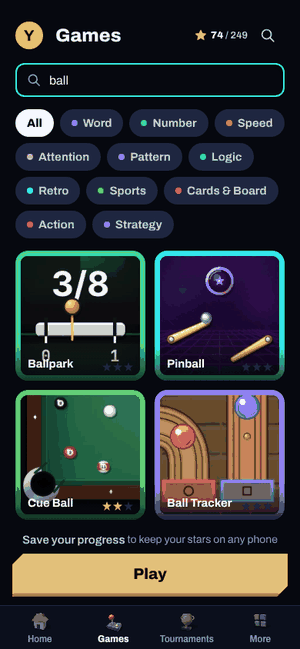
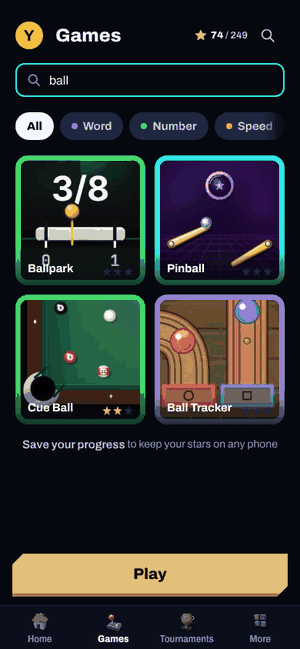
Games pages: phone chips in one scrolling row; Challenges' Friends tab
Phones: the catalogue's chips are one row that scrolls inside itself (edge faded),
so the hero shows on the first screen; tablets and computers wrap them.
Challenges: a fourth tab, Friends, after Done: YourChallenges (tab variant, Profile's
former list), each row opening its challenge; with none, one line and a Challenge a
friend link. The tabs carry no counts. standard-live-check exits after its summary.
Gallery: the catalogue and Challenges shots re-recorded, the Friends tab added.

Claude-Session: https://claude.ai/code/session_011WK1FeSMpN5mWuL4Buj1WU

diff --git a/src/routes/challenges.tsx b/src/routes/challenges.tsx
@@ -2,6 +2,7 @@ import { createFileRoute, useRouter } from "@tanstack/react-router";
 import { useMemo, useState } from "react";
 
 import { GameIcon } from "@/components/app/GameIcon";
+import { YourChallenges } from "@/components/challenge/YourChallenges";
 import { PhoneShell } from "@/components/duel/PhoneShell";
 import {
   ChallengeRows,
@@ -33,13 +34,21 @@ export const Route = createFileRoute("/challenges")({
   component: ChallengesScreen,
 });
 
-type Filter = ChallengeState["status"];
+type Filter = ChallengeState["status"] | "friends";
 
 const FILTERS: { value: Filter; label: string }[] = [
   { value: "progress", label: "In progress" },
   { value: "new", label: "New" },
   { value: "done", label: "Done" },
+  // The friend challenges this device made or sent (Profile's former "Your challenges", 14 Nov 2026).
+  { value: "friends", label: "Friends" },
 ];
+
+/**
+ * Where the Friends tab's empty state sends a player to challenge a friend: today's Challenge a friend screen (the
+ * create form). The brief named /rooms, which isn't on main yet; point this there once that route lands.
+ */
+const CHALLENGE_A_FRIEND = { to: "/challenge", search: {} } as const;
 
 function ChallengesScreen() {
   useHomeBed();
@@ -48,7 +57,7 @@ function ChallengesScreen() {
   const server = useServerChallenges(true);
   const states = useChallengeStates(server);
   const joules = useChallengeJoules();
-  const counts: Record<Filter, number> = { progress: 0, new: 0, done: 0 };
+  const counts: Record<ChallengeState["status"], number> = { progress: 0, new: 0, done: 0 };
   for (const s of states) counts[s.status] += 1;
   const [chosen, setChosen] = useState<Filter | null>(null);
   const filter: Filter = chosen ?? (counts.progress > 0 ? "progress" : "new");
@@ -123,11 +132,29 @@ function ChallengesScreen() {
           options={FILTERS.map((f) => ({
             value: f.value,
             label: f.label,
-            count: counts[f.value],
+            // No counts on the tabs (the mockup's; four tabs fit a 375 px phone): the done count is in the summary.
             data: { "data-challenge-filter": f.value },
           }))}
         />
-        {groups.length === 0 ? (
+        {filter === "friends" ? (
+          // Each row opens the challenge as it did on Profile.
+          <YourChallenges
+            variant="tab"
+            onOpen={(code) =>
+              void router.navigate({
+                to: "/challenge",
+                search: { code },
+                state: { fromPlayTab: true } as never,
+              } as never)
+            }
+            onNew={() =>
+              void router.navigate({
+                ...CHALLENGE_A_FRIEND,
+                state: { fromPlayTab: true } as never,
+              } as never)
+            }
+          />
+        ) : groups.length === 0 ? (
           <p data-challenges-empty className="gm-empty">
             {filter === "done"
               ? "None done yet"
@@ -152,7 +179,9 @@ function ChallengesScreen() {
                   className="gm-ch-game press"
                 >
                   <GameIcon type={type} size={44} />
-                  <span className="gm-ch-game-name" data-wrap-ok="">{name}</span>
+                  <span className="gm-ch-game-name" data-wrap-ok="">
+                    {name}
+                  </span>
                   <Icon name="chevron-right" size={20} className="gm-ch-game-chevron" />
                 </button>
                 <ChallengeRows

diff --git a/src/components/challenge/YourChallenges.tsx b/src/components/challenge/YourChallenges.tsx
@@ -14,7 +14,20 @@ const SHOWN = 4;
  * sees the empty state (wave 1, 10 Nov 2026: Captain Joulz, one line, Challenge a friend); a server error
  * (e.g. before the migration) hides the section.
  */
-export function YourChallenges({ onOpen, onNew }: { onOpen: (code: string) => void; onNew?: () => void }) {
+export function YourChallenges({
+  onOpen,
+  onNew,
+  variant = "section",
+}: {
+  onOpen: (code: string) => void;
+  onNew?: () => void;
+  /**
+   * `tab` (the Challenges page's Friends tab, 14 Nov 2026): the list with no heading of its own, and, with nothing to
+   * show (none made or sent, none returned, or a server error), one line and a Challenge a friend link. `section` (the
+   * default) is Profile's section exactly as before.
+   */
+  variant?: "section" | "tab";
+}) {
   const [list, setList] = useState<ChallengeSummary[] | null>(null);
   const [none, setNone] = useState(false);
   useEffect(() => {
@@ -34,6 +47,20 @@ export function YourChallenges({ onOpen, onNew }: { onOpen: (code: string) => vo
       live = false;
     };
   }, []);
+  if (variant === "tab") {
+    if (!none && list === null) return null;
+    if (none || !list || list.length === 0)
+      return (
+        <p data-your-challenges-empty className="gm-empty">
+          No friend challenges yet.{" "}
+          {onNew ? (
+            <button type="button" onClick={onNew} data-challenge-a-friend className="ap-link press -my-3 inline-flex h-11 items-center align-middle">
+              Challenge a friend
+            </button>
+          ) : null}
+        </p>
+      );
+  }
   if (none && onNew)
     return (
       <section aria-label="Your challenges" className="ap-section">
@@ -51,7 +78,7 @@ export function YourChallenges({ onOpen, onNew }: { onOpen: (code: string) => vo
   const now = Date.now();
   return (
     <section aria-label="Your challenges" data-your-challenges className="ap-section">
-      <SectionHeader title="Your challenges" />
+      {variant === "tab" ? null : <SectionHeader title="Your challenges" />}
       <ul className="jz-panel">
         {list.map((c) => (
           <li key={c.code}>

diff --git a/scripts/screens/games.ts b/scripts/screens/games.ts
@@ -7,6 +7,7 @@
  */
 import type { Page } from "playwright";
 
+import { challengeFixture } from "../challenge-fixture";
 import { passFixture } from "../pass-fixture";
 import { PRACTICE_CHALLENGES, challengeLive } from "../../src/lib/duel/practiceChallenges";
 import type { ServerChallenges } from "../../src/lib/challenges/challengesClient";
@@ -46,6 +47,12 @@ export function gamesChallengesFixture(): ServerChallenges {
 
 const pageOf = (type: string) => ({ page: type });
 
+/** The Challenges page's Friends tab chosen. */
+const friendsTab = async (page: Page) => {
+  await page.locator("[data-challenge-filter='friends']").click();
+  await page.locator("[data-your-challenges], [data-your-challenges-empty]").first().waitFor({ timeout: 15_000 });
+};
+
 export const GAMES_SCREENS = (sizes: ThemeViewport[], allSizes: ThemeViewport[]): ThemeScreen[] => {
   const data = { __harnessProgress: gamesProgressFixture(), __DUELZ_CHALLENGES__: gamesChallengesFixture() };
   const pass = passFixture();
@@ -80,5 +87,8 @@ export const GAMES_SCREENS = (sizes: ThemeViewport[], allSizes: ThemeViewport[])
     { name: "games light: catalogue", mode: "practice", globals: { ...data, ...light }, sizes: allSizes },
     { name: "games light: game page", mode: "practice", plain: true, search: pageOf("tubes"), globals: { ...withPass, ...light }, sizes: allSizes, waitMs: 900 },
     { name: "games light: challenges", mode: "challenges", plain: true, globals: { ...withPass, ...light }, sizes: allSizes, waitMs: 900 },
+    // The Friends tab (Joe, 14 Nov 2026): this device's friend challenges (Profile's former "Your challenges"), and none.
+    { name: "games: challenges, friends", mode: "challenges", plain: true, globals: data, challenge: () => challengeFixture("create"), sizes, waitMs: 600, go: friendsTab },
+    { name: "games: challenges, friends, none", mode: "challenges", plain: true, records: false, globals: data, sizes, waitMs: 600, go: friendsTab },
   ];
 };

diff --git a/src/polish-layout/games.css b/src/polish-layout/games.css
@@ -36,13 +36,35 @@
   gap: var(--jz-space-16);
   padding-bottom: var(--jz-space-24);
 }
+/*
+ * The chips: on a phone one row that scrolls sideways inside itself (the page never does), its right edge fading
+ * out, so the hero shows on the first screen; a tablet or a computer (PhoneShell's data-layout) wraps them.
+ */
 .gm-chips {
   display: flex;
-  flex-wrap: wrap;
+  flex-wrap: nowrap;
   gap: var(--jz-space-8);
+  overflow-x: auto;
+  overscroll-behavior-x: contain;
+  margin: 0 calc(-1 * var(--jz-space-4));
+  padding: var(--jz-space-4) var(--jz-space-32) var(--jz-space-4) var(--jz-space-4);
+  scrollbar-width: none;
+  -webkit-mask-image: linear-gradient(to right, black calc(100% - var(--jz-space-32)), transparent);
+  mask-image: linear-gradient(to right, black calc(100% - var(--jz-space-32)), transparent);
+}
+.gm-chips::-webkit-scrollbar {
+  display: none;
 }
 .gm-chips > .jz-chip {
   flex: 0 0 auto;
+}
+[data-layout] .gm-chips {
+  flex-wrap: wrap;
+  overflow-x: visible;
+  margin: 0;
+  padding: 0;
+  -webkit-mask-image: none;
+  mask-image: none;
 }
 .gm-grid {
   display: grid;

diff --git a/src/components/games/GamesCatalogue.tsx b/src/components/games/GamesCatalogue.tsx
@@ -132,7 +132,13 @@ export function GamesCatalogue({
           />
         </div>
       ) : null}
-      <div role="group" aria-label="Game categories" className="gm-chips" data-games-chips>
+      <div
+        role="group"
+        aria-label="Game categories"
+        className="gm-chips"
+        data-games-chips
+        data-scroll-x=""
+      >
         <Chip
           selected={filter === "all"}
           data-practice-filter="all"
@@ -221,7 +227,9 @@ function HeroTile({
     >
       <span className="gm-hero-text">
         <span className="gm-hero-kicker">Game of the day</span>
-        <span className="gm-hero-name" data-wrap-ok="">{name}</span>
+        <span className="gm-hero-name" data-wrap-ok="">
+          {name}
+        </span>
         <span className="gm-hero-tag">
           <span aria-hidden="true" data-cat={tag.id} className="gm-dot" />
           {tag.label}

diff --git a/scripts/standard-live-check.ts b/scripts/standard-live-check.ts
@@ -463,3 +463,6 @@ if (failures.length) {
   process.exit(1);
 }
 console.log(`PASS standard-live-check: ${games.length} practice rounds (through the app) and ${roomCount} room rounds (the built room deal and grader) on the production build score the standard's 150 + speed + bonus`);
+// Changed with Joe's approval, 14 Nov 2026 (routine: the check's shutdown): the production server child can outlive its
+// kill() and hold the process open after the summary, so the check ends here (the failure path already exits).
+process.exit(0);

diff --git a/CLAUDE.md b/CLAUDE.md
@@ -2564,8 +2564,11 @@ outside the repo.
   already in its 3-2-1 (`load(type, true)`; Play again does the same; Joe, 14 Nov 2026; RoundIntro unchanged). A
   `/practice?game=<id>` link still opens the full intro with Ready (checks that judge the intro use it,
   `practiceGameUrl` in `scripts/practice-side-lib.ts`; `playFromCatalogue` goes tile → page → Play). **Challenges**
-  (`src/routes/challenges.tsx`, More → Challenges): done count and bar, In progress | New | Done, grouped by game, each
-  game's name opening its page. PhoneShell `railTab` draws the full rail on these pushed pages. Screens:
+  (`src/routes/challenges.tsx`, More → Challenges): done count and bar, In progress | New | Done | Friends (no counts on
+  the tabs), grouped by game, each game's name opening its page; Friends is `YourChallenges variant="tab"` (Profile's
+  former list; with none, one line and a Challenge a friend link, `CHALLENGE_A_FRIEND`, today `/challenge` until `/rooms`
+  exists). On a phone the catalogue's chips are one sideways-scrolling row (`data-scroll-x`, edge faded); tablets and
+  computers wrap them. PhoneShell `railTab` draws the full rail on these pushed pages. Screens:
   `scripts/screens/games.ts` (theme-check in sixths, no-wrap-check in elevenths); shots `bun scripts/shots/games-shots.ts`.
 - `src/components/duel/` — room/round screens (PhoneShell, RoundIntro, TimerBar,
   AnswerReveal, ArcadeReveal, WinnerReveal…); `src/components/puzzles/` — shared puzzle

diff --git a/docs/design/pages-review/games/GALLERY.md b/docs/design/pages-review/games/GALLERY.md
@@ -11,8 +11,10 @@ Today's tile art stands in until step 4's key art.
 | ![Practice before](before-practice.png) | ![Games catalogue](after-catalogue.png) |
 
 Before: the title "Practice", the Puzzles | Arcade switch, then the challenges block, then the lists. After: the title
-"Games" with the star total and the search button, chips (All, the six categories, the five arcade groups) that wrap
-rather than scroll sideways, the game-of-the-day hero and a two-column grid of tiles with their stars. No challenges.
+"Games" with the star total and the search button, chips (All, the six categories, the five arcade groups)
+in one row that scrolls sideways inside itself on a phone (its edge fading; tablets and computers wrap them, Joe,
+14 Nov 2026), so the game-of-the-day hero shows on the first screen, then a two-column grid of tiles with their stars.
+No challenges.
 
 Search open (names only): ![Search](after-catalogue-search.png)
 
@@ -31,6 +33,13 @@ Light: ![Game page, light](after-game-page-light.png)
 ## Challenges (More → Challenges)
 
 ![Challenges](after-challenges.png)
+
+The Friends tab (Joe, 14 Nov 2026): the friend challenges this device made or sent (Profile's former "Your challenges"),
+each opening the challenge; with none, one line and a Challenge a friend link.
+
+| Friends | Friends, none |
+|---|---|
+| ![Friends tab](after-challenges-friends.png) | ![Friends tab, none](after-challenges-friends-none.png) |
 
 ## Computer
 
